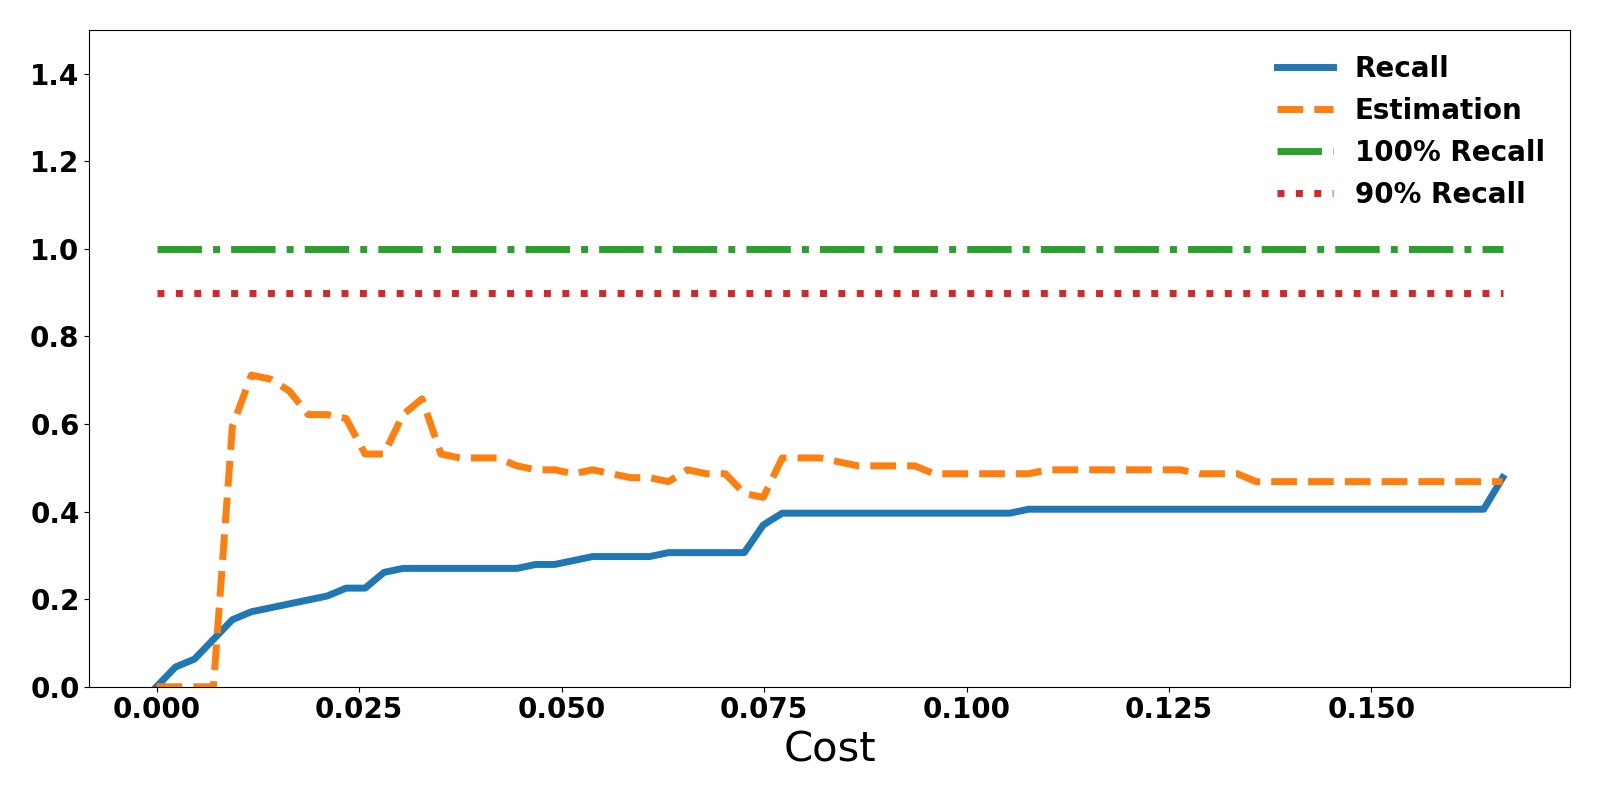
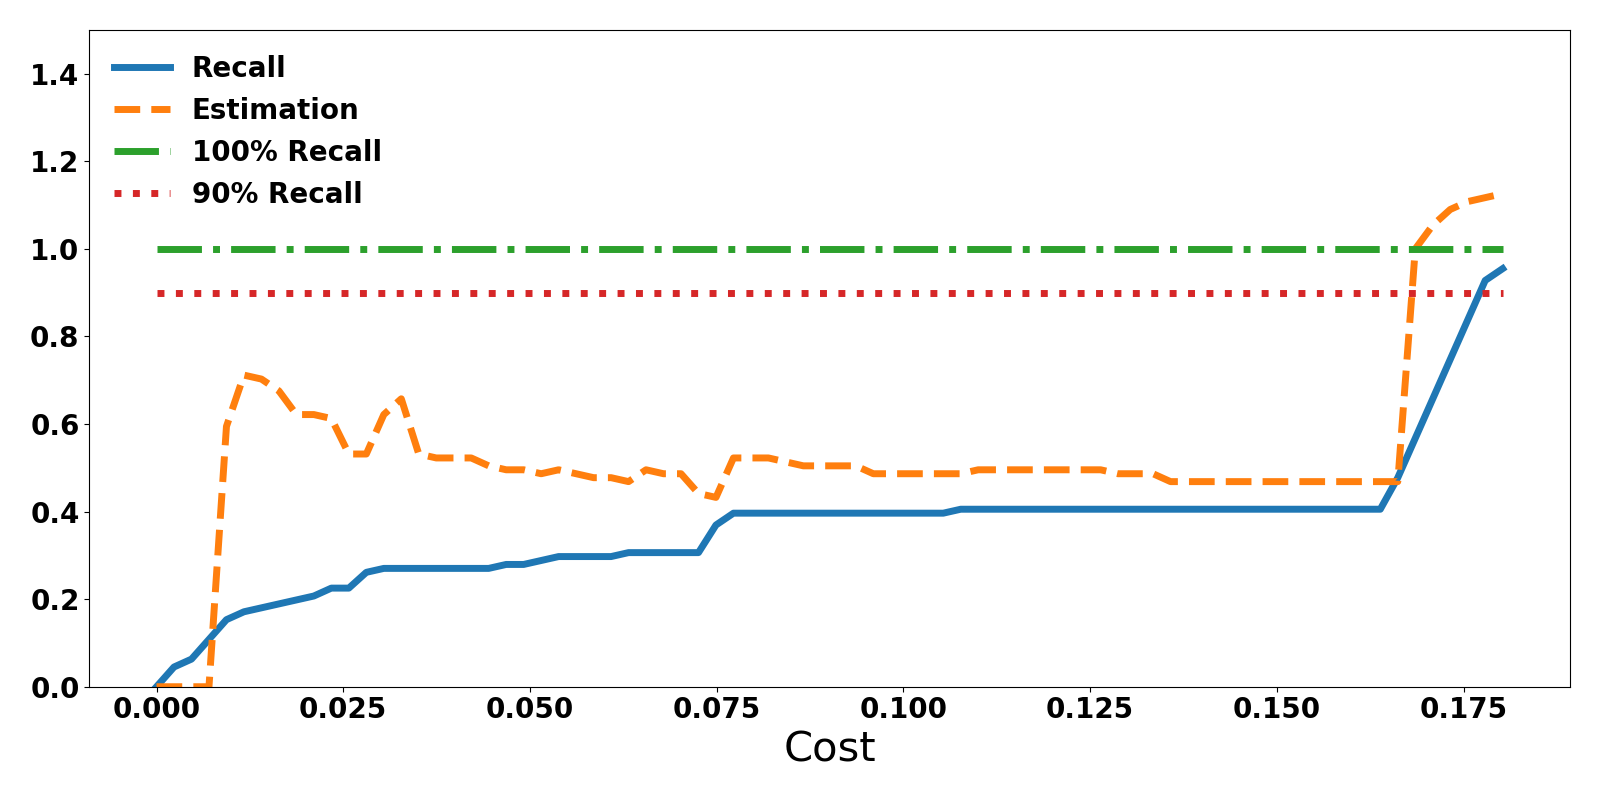
compare to new baseline

diff --git a/src/jitterbug.py b/src/jitterbug.py
@@ -393,14 +393,10 @@ class Hard(object):
         tpr = np.array(self.record["pos"])/t
         estr = np.array(self.record["est"])/t
 
-        for i,rec in enumerate(tpr):
-            if estr[i]>0 and rec >= estr[i]*T_rec:
-                break
-
-        plt.plot(costr[:i+1], tpr[:i+1],label='Recall')
-        plt.plot(costr[:i+1], estr[:i+1],'--',label='Estimation')
-        plt.plot(costr[:i+1], [1.0]*(i+1),'-.',label='100% Recall')
-        plt.plot(costr[:i+1], [T_rec]*(i+1),':',label=str(int(T_rec*100))+'% Recall')
+        plt.plot(costr, tpr,label='Recall')
+        plt.plot(costr, estr,'--',label='Estimation')
+        plt.plot(costr, [1.0]*len(tpr),'-.',label='100% Recall')
+        plt.plot(costr, [T_rec]*len(tpr),':',label=str(int(T_rec*100))+'% Recall')
 
         plt.ylim(0,1.5)
         plt.legend()

diff --git a/src/main.py b/src/main.py
@@ -146,8 +146,6 @@ def estimate_results(seed=0,T_rec=0.90,model="RF",input="../new_data/rest/"):
     data=load_csv(path=input)
     # Hard Results
     for target in data:
-        if target!="jfreechart-1.0.19":
-            continue
         jitterbug = Jitterbug_hard(data,target,est=True,T_rec=T_rec,model=model,seed=seed)
         jitterbug.hard.plot(T_rec=T_rec)
 
